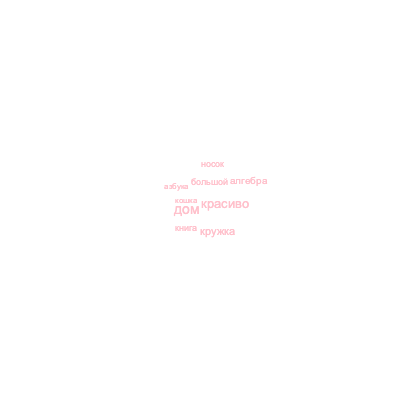
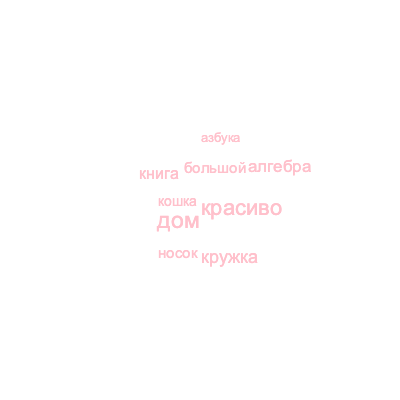
added a second location algorithm

Changed region(s): [[0.33, 0.39, 0.78, 0.66], [0.51, 0.33, 0.6, 0.36]]

diff --git a/TagsCloudVisualization/RectanglesGenerator.cs b/TagsCloudVisualization/RectanglesGenerator.cs
@@ -7,8 +7,9 @@ public interface IRectangleGenerator
 {
     public List<RectangleInformation> ExecuteRectangles(Dictionary<string, int> frequencyRectangles, Point center);
 }
-public class RectangleGenerator : IRectangleGenerator
+public class RectangleGenerator(ISpiral spiral) : IRectangleGenerator
 {
+    readonly ISpiral spiral = spiral;
     private static readonly List<RectangleInformation> rectangleInformation = [];
     private static readonly Dictionary<string, Size> rectangleData = [];
     private static void GenerateRectangles(Dictionary<string, int> frequencyRectangles)
@@ -17,15 +18,15 @@ public class RectangleGenerator : IRectangleGenerator
         var sortedWords = frequencyRectangles.OrderByDescending(word => word.Value);
         foreach (var word in sortedWords)
         {
-            var width = word.Value * 300 / totalCountWords;
-            var height = word.Value * 170 / totalCountWords;
+            var width = word.Value * 500 / totalCountWords;
+            var height = word.Value * 300 / totalCountWords;
             var rectangleSize = new Size(Math.Max(width, 1), Math.Max(height, 1));
             rectangleData.Add(word.Key, rectangleSize);
         }
     }
-    private static List<RectangleInformation> PutRectangles(Point center)
+    private List<RectangleInformation> PutRectangles(Point center)
     {
-        var layouter = new CircularCloudLayouter(center);
+        var layouter = new CircularCloudLayouter(spiral, center);
         foreach (var rect in rectangleData)
         {
             var tempRect = layouter.PutNextRectangle(rect.Value);

diff --git a/TagsCloudVisualization/ManagingRendering/FermatSpiral.cs b/TagsCloudVisualization/ManagingRendering/FermatSpiral.cs
@@ -1,0 +1,31 @@
+using System.Drawing;
+
+namespace TagsCloudVisualization.ManagingRendering;
+
+public class FermatSpiral : ISpiral
+{
+    private readonly Point startPoint;
+    private readonly double scaleFactor;
+    private double currentAngle;
+
+    public FermatSpiral(Point startPoint, double scaleFactor = 1)
+    {
+        if (scaleFactor <= 0)
+            throw new ArgumentOutOfRangeException(nameof(scaleFactor), "Scale factor must be positive");
+
+        this.startPoint = startPoint;
+        this.scaleFactor = scaleFactor;
+        this.currentAngle = 0;
+    }
+
+    public Point GetNextPoint()
+    {
+        var radius = scaleFactor * Math.Sqrt(currentAngle);
+        var x = (int)(startPoint.X + radius * Math.Cos(currentAngle));
+        var y = (int)(startPoint.Y + radius * Math.Sin(currentAngle));
+        
+        currentAngle += Math.PI / 36;
+
+        return new Point(x, y);
+    }
+}

diff --git a/ConsoleClient/Program.cs b/ConsoleClient/Program.cs
@@ -4,6 +4,7 @@ using CommandLine;
 using DrawingTagsCloudVisualization;
 using TagsCloudVisualization;
 using TagsCloudVisualization.FilesProcessing;
+using TagsCloudVisualization.ManagingRendering;
 
 namespace ConsoleClient;
 
@@ -41,6 +42,15 @@ public class Program
         builder.RegisterType<RectangleGenerator>()
             .As<IRectangleGenerator>()
             .InstancePerDependency();
+
+        builder.Register<ISpiral>(c =>
+        {
+            if (options.Algorithm.Equals("Circle", StringComparison.OrdinalIgnoreCase))
+            {
+                return new ArchimedeanSpiral(new Point(options.CenterX, options.CenterY), 1);
+            }
+            return new FermatSpiral(new Point(options.CenterX, options.CenterY), 20);
+        }).As<ISpiral>().InstancePerDependency();
 
         builder.RegisterType<WordHandler>()
             .As<IWordHandler>()

diff --git a/DrawingTagsCloudVisualization/DrawingTagsCloud.cs b/DrawingTagsCloudVisualization/DrawingTagsCloud.cs
@@ -20,7 +20,8 @@ public class DrawingTagsCloud(List<RectangleInformation> rectangleInformation) :
             { "green", Colors.Green },
             { "yellow", Colors.Yellow },
             { "blue", Colors.Blue },
-            { "pink", Colors.Pink }
+            { "pink", Colors.Pink },
+            { "black", Colors.Black },
     };
 
     public void SaveToFile(string filePath, int lenght, int width, string color)
@@ -44,7 +45,7 @@ public class DrawingTagsCloud(List<RectangleInformation> rectangleInformation) :
 
             float fontSize = rect.Height;
             if (!dictColors.TryGetValue(color, out var colorGet))
-                colorGet = Colors.White;
+                colorGet = Colors.Black;
             canvas.FontColor = colorGet;
             var textBounds = canvas.GetStringSize(text, Font.Default, fontSize);
 

diff --git a/TagsCloudVisualization/ManagingRendering/ArchimedeanSpiral.cs b/TagsCloudVisualization/ManagingRendering/ArchimedeanSpiral.cs
@@ -2,7 +2,7 @@ using System.Drawing;
 
 namespace TagsCloudVisualization.ManagingRendering;
 
-public class ArchimedeanSpiral
+public class ArchimedeanSpiral : ISpiral
 {
     private readonly Point startPoint;
     private readonly double radiusStep;
@@ -13,10 +13,10 @@ public class ArchimedeanSpiral
     {
         if (radiusStep <= 0) throw new ArgumentOutOfRangeException(nameof(radiusStep), "radius step must be positive");
 
-        this.angleStep = Math.PI / 180;
+        angleStep = Math.PI / 180;
         this.startPoint = startPoint;
         this.radiusStep = radiusStep;
-        this.currentAngle = 0;
+        currentAngle = 0;
     }
 
     public Point GetNextPoint()

diff --git a/TagsCloudVisualization/ManagingRendering/CloudTags.cs b/TagsCloudVisualization/ManagingRendering/CloudTags.cs
@@ -2,10 +2,14 @@ using System.Drawing;
 
 namespace TagsCloudVisualization.ManagingRendering;
 
-public class CircularCloudLayouter(Point center)
+public class CircularCloudLayouter
 {
-    private ArchimedeanSpiral spiral = new ArchimedeanSpiral(center);
-    private Point centerСloud = center;
+    public CircularCloudLayouter(ISpiral spiral, Point center){
+        this.spiral = spiral;
+        this.centerСloud = center;
+    }
+    private Point centerСloud;
+    private readonly ISpiral spiral;
 
     private List<Rectangle> rectangles = [];
 

diff --git a/ConsoleClient/Options.cs b/ConsoleClient/Options.cs
@@ -21,6 +21,9 @@ public class Options
     [Option('w', "width", Default = 400, HelpText = "Ширина изображения")]
     public int Width{ get; set; }
 
-    [Option('c', "color", Default = "white", HelpText = "Цвет текста")]
+    [Option('c', "color", Default = "black", HelpText = "Цвет текста")]
     public string Color{ get; set; }
+
+    [Option('a', "algoritm", Default = "Circle", HelpText = "Алгоритм(квадрат, круг)")]
+    public string Algorithm{ get; set; }
 }

diff --git a/TagsCloudVisualization/ManagingRendering/ISpiral.cs b/TagsCloudVisualization/ManagingRendering/ISpiral.cs
@@ -1,0 +1,7 @@
+using System.Drawing;
+
+namespace TagsCloudVisualization.ManagingRendering;
+
+public interface ISpiral{
+    public Point GetNextPoint();
+}

diff --git a/ConsoleClient/Examples/README.md b/ConsoleClient/Examples/README.md
@@ -5,15 +5,19 @@ Agrs: dotnet run
 
 # 2 example:
 
-Args: dotnet run -- -o example1.png -l 500 -w 500
+Args: dotnet run -- -o Examples/example1.png -l 500 -w 500
 ![alt text](example1.png)
 
 # 3 example:
 
-Args: dotnet run -- -o example2.png -x 150 -y 300
+Args: dotnet run -- -o Examples/example2.png -x 150 -y 300
 ![alt text](example2.png)
 
 # 4 example:
 
 Args: dotnet run -- -c pink -o Examples/example3.png
 ![alt text](example3.png)
+
+# 5 example:
+Args: dotnet run -- -a Fermat -o Examples/example4.png
+![alt text](example4.png)
